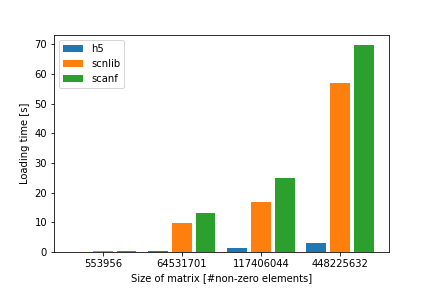
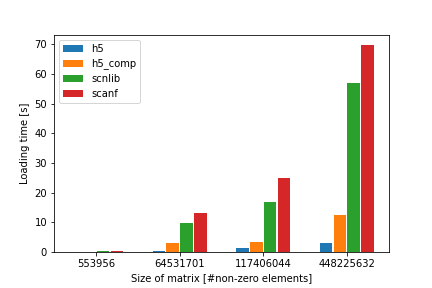
Add size comparisons.

diff --git a/docs/paper/thesis.tex b/docs/paper/thesis.tex
@@ -559,18 +559,37 @@ implementation.
 
 \begin{figure}[!h]
     \centering
-    \includegraphics[scale=0.5]{static/matrix_loading.png}
-    \caption{Loading times of matrices}
+    \begin{minipage}{.5\textwidth}
+        \centering
+        \includegraphics[scale=0.45]{static/matrix_loading.png}
+    \end{minipage}%
+    \begin{minipage}{.5\textwidth}
+        \centering
+        \includegraphics[scale=0.45]{static/storage_sizes.png}
+    \end{minipage}
 \end{figure}
+
+
+Since, MMEF uses coordinate format to store sparse matrices, it may ommit elements from symmetrical matrices which can be inferred
+from their symmetrical counterparts. This can be used as size optimization. Matrices 2, 3 and 4 in the above graph are symmetrical,
+thus their on-disk size can be smaller with MMEF than it is with HDF5.
+
+HDF5 format supports dataset compression by LZMA. Setting chunk size to 4096 and compression level to 5 for each of the 3 datasets,
+it is possible to achieve considerable storage savings (the biggest matrix is around 7.8x smaller stored as compressed HDF5 compared to MMEF)
+while maintaning better loading performance, with average throughput being 27074837 elements/s, about 4x slower than HDF5 with no compression,
+but still 4 and 6 times faster than scnlib and scanf implementations respectively.
+
+
+
 
 \chapter{On disk storage for CSR5 matrices}
 
 HDF5 supports loading only a part of dataset as a hyperslab, making it possible to load only the data
 required by a tile to be loaded.
 
+
+
 \section{Loading the matrices}
-
-
 
 
 \begin{algorithm}
